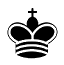
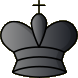
high-res pieces and evaluation func

diff --git a/src/Game.cc b/src/Game.cc
@@ -39,7 +39,7 @@ void Game::eventHandler()
 {
 	while (SDL_PollEvent(&e))
 	{
-		// rezise window
+		// resize window
 		window->resize(e);
 
 		// close application
@@ -184,7 +184,6 @@ void Game::playerPlayMove()
 	}
 }
 
-//TODO rewrite this with new function from Pieces
 void Game::executePlayerMove(Square& sq)
 {
 	// loop players pieces to find the correct one
